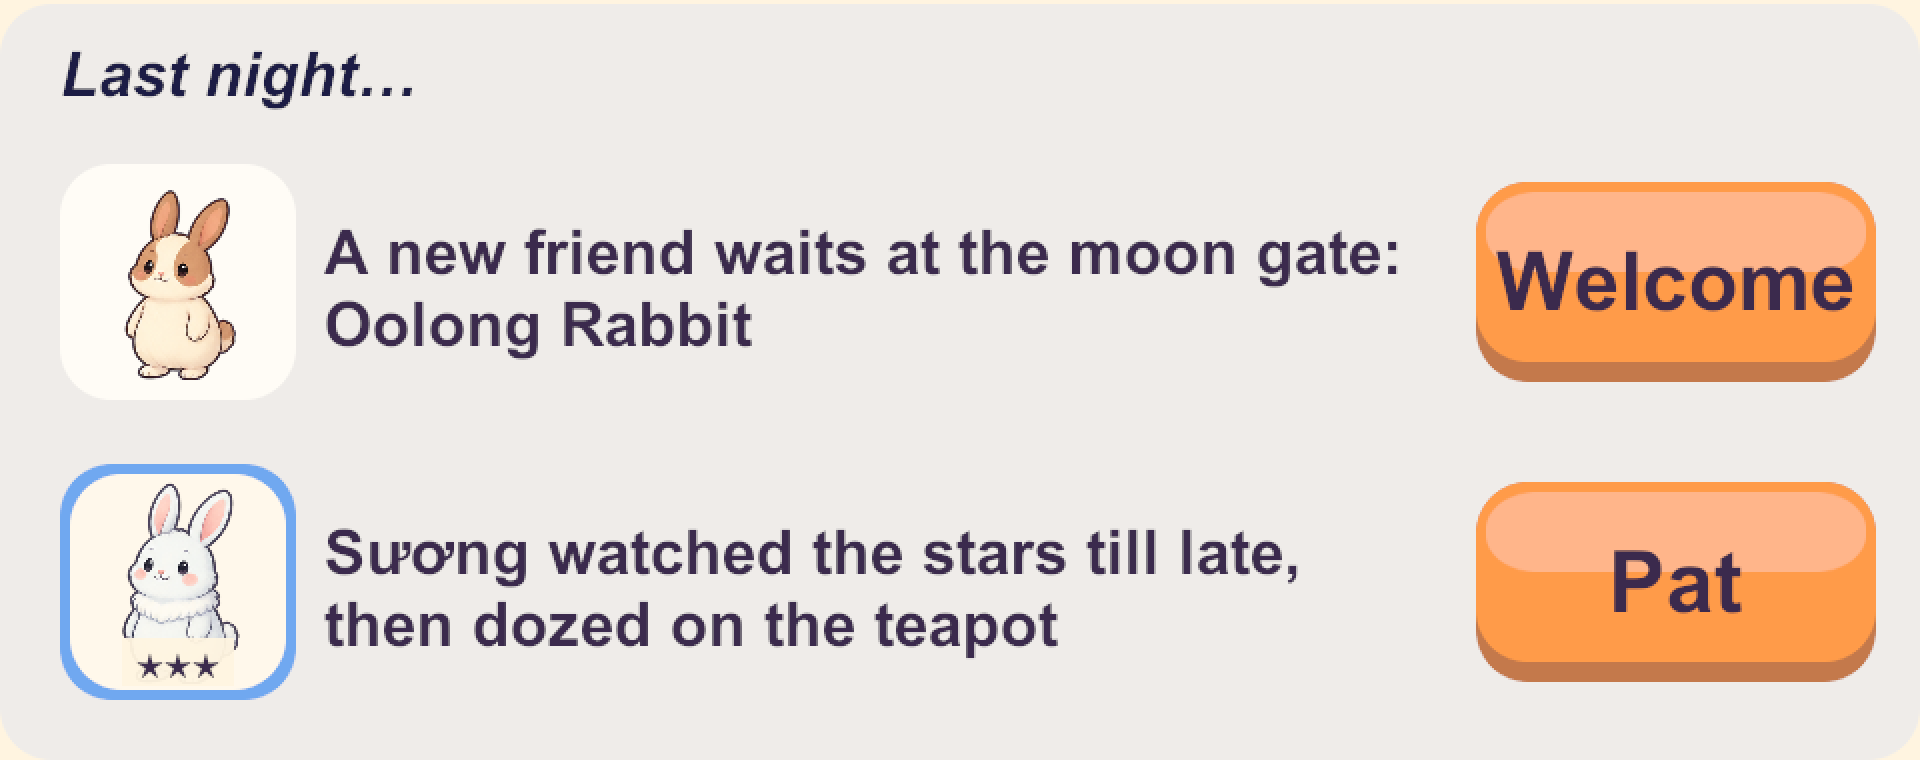
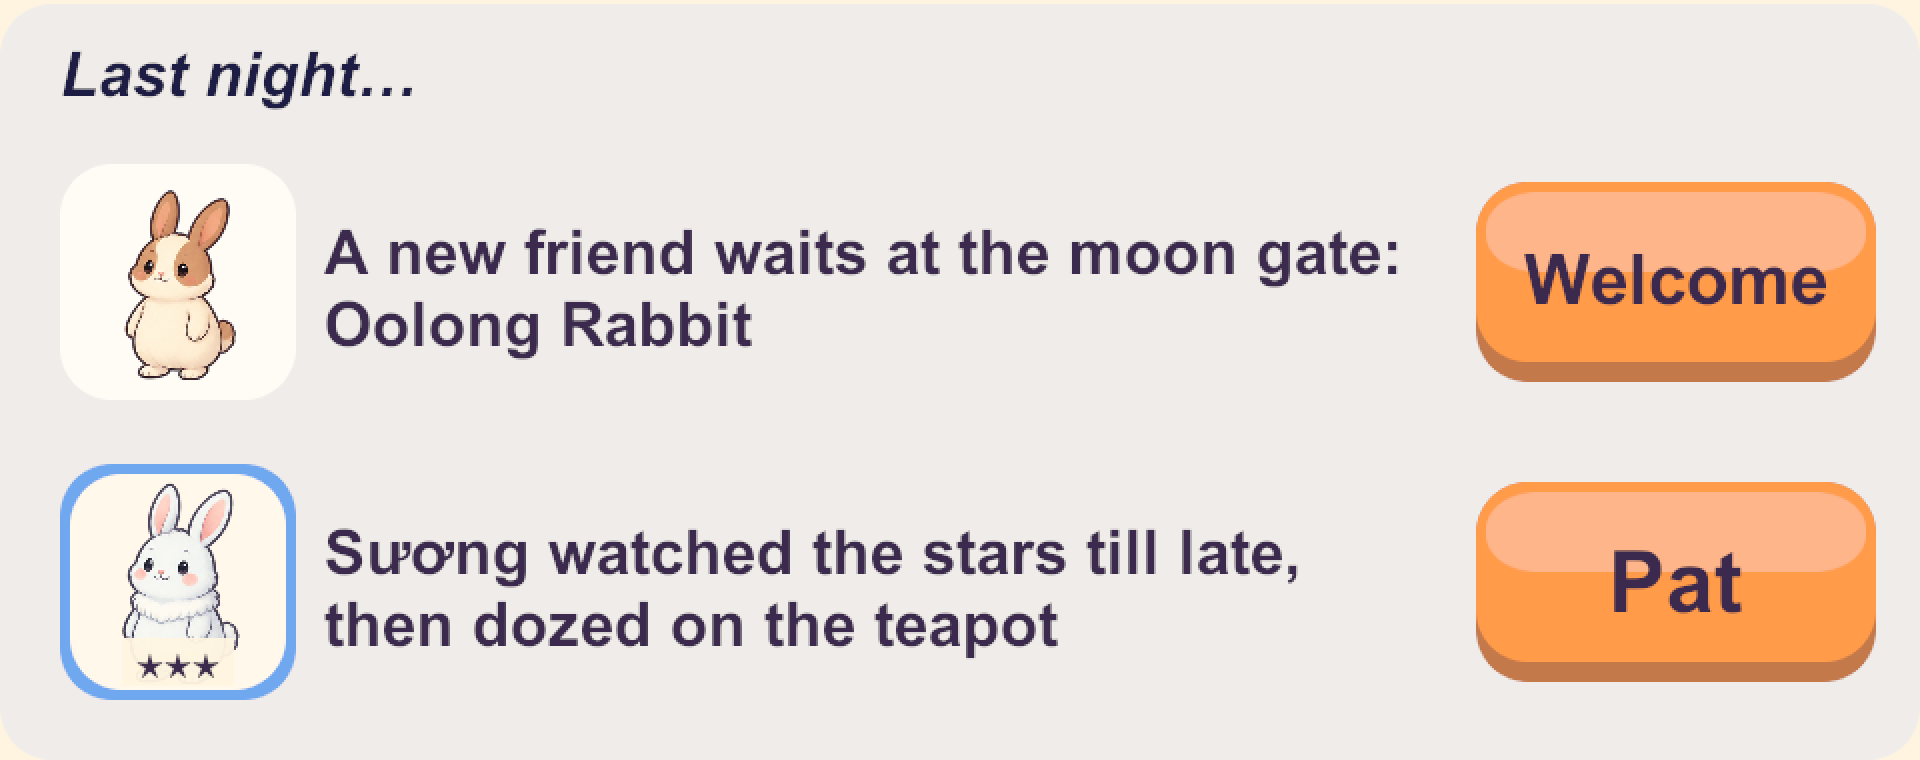
The visual-critic-gate record for #174 adds round 3, after the review nits: side-by-side bond portraits, kind names kept whole, padded story buttons.

Changed region(s): [[0.7812, 0.3329, 0.9688, 0.4237]]

diff --git a/docs/anh/qa/174/VERDICT.md b/docs/anh/qa/174/VERDICT.md
@@ -29,3 +29,19 @@ VERDICT: APPROVED
 7. pass - every line is readable at normal and large text, with no clipping in vi or en. Long lines wrap to two lines. Buttons are 100 units tall (the floor is 88). "Xong"/"Done" greys out the button that was taken.
 ```
 Not changed by #174: in the one-story frame, the tray strip behind the dim overlay shows above the shorter sheet. It is the garden behind the sheet, as on main.
+
+## Round 3, after the QA review of `d697fe6`: APPROVED
+These three changes come from the review's frame nits. The sheet and the crops are rebuilt from `tools/shot.sh overnight` on the new head, and the worker that built the card graded them again.
+- The bond row now shows the two friends side by side at 52% size, 62 units apart. Both faces show, and `OvernightScreenTests` checks the spacing.
+- A kind name now keeps its words together with no-break spaces, so it no longer splits as "Thỏ Ô / Long"; the whole name moves to the next line.
+- The story buttons now have 22 units of padding on each side, so "Welcome" no longer touches the edges at large text.
+```
+VERDICT: APPROVED
+1. pass - both friend portraits sit fully inside the portrait column with both faces visible
+2. pass - rows, card and buttons are where they were in round 2
+3. pass - no new colours
+4. pass - no halos in the 200% crops
+5. pass - no new art
+6. pass - the pair tiles are smaller than the single portraits, as a pair should be
+7. pass - the kind name stays whole, button labels have side padding, nothing clips in vi or en at either text size
+```
